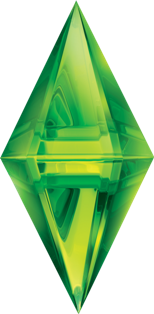
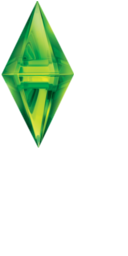
Agregado reconocimiento de objetos coleccionables y su representación en pantalla.

diff --git a/Yaguar-IT Studios/src/viradium/src/history_1/level_1.js b/Yaguar-IT Studios/src/viradium/src/history_1/level_1.js
@@ -748,8 +748,45 @@ var Cossino = (function () {
 })();
 
 
-var playerGroundSensorId = 1000;
-var objectGroundSensorCounter = playerGroundSensorId + 1;
+var ViradiumSprite = cc.Sprite.extend({
+    director: null,
+    wSizeWidth: null,
+    wSizeHeight: null,
+    frameCache: null,
+    audioEngine: null,
+    spriteDescription: null,
+
+    ctor:function () {
+        this._super();
+
+        this.setAnchorPoint(cc_Point(0.5, 0.5));
+
+        var cache = cc.SpriteFrameCache.getInstance();
+        cache.addSpriteFrames(s_viradium_plist, s_viradium_img);
+
+        this.director = cc.Director.getInstance();
+        this.wSizeWidth = this.director.getWinSize().width;
+        this.wSizeHeight = this.director.getWinSize().height;
+        this.frameCache = cc.SpriteFrameCache.getInstance();
+        this.audioEngine = cc.AudioEngine.getInstance();
+
+        this.spriteDescription = "Viradium";
+
+        this.initWithSpriteFrameName("viradium_1.png");
+
+        var next_frame = this.frameCache.getSpriteFrame("viradium_1.png");
+
+        this.setTextureRect(next_frame.getRect());
+        this.setContentSize(next_frame.getRect().width,
+                            next_frame.getRect().height);
+        this.setDisplayFrame(next_frame);
+
+        this.scheduleUpdate();
+    },
+
+    update:function () {
+    }
+});
 
 
 var Hist1Lvl1Layer = cc.Layer.extend({
@@ -798,6 +835,7 @@ var Hist1Lvl1Layer = cc.Layer.extend({
     _playerRunDeltaMultiplier: 1.0,
     _playerWalkDeltaMultiplier: 1.0,
     _playerJumpDeltaMultiplier: 1.0,
+
 
     ctor:function () {
         cc.log("Init Function: Hist1Lvl1Layer.");
@@ -1259,10 +1297,15 @@ var Hist1Lvl1Layer = cc.Layer.extend({
                     sprite.setPosition(cc_Point(this_obj._wsizewidth / 2,
                                                 spritePosition.y));
                 }
-            }
-            else {
-                // Analizar objetos TMX
-                objectTMX = sprite;
+                else if (sprite instanceof ViradiumSprite) {
+                    spritePosition = cc_Point(bodyf.GetPosition().x * physics.scale,
+                                              bodyf.GetPosition().y * physics.scale);
+
+                    spriteAngle = -1 * cc_RADIANS_TO_DEGREES(bodyf.GetAngle());
+
+                    sprite.setPosition(cc_Point(spritePosition.x, spritePosition.y));
+                    sprite.setRotation(spriteAngle);
+                }
             }
         }
 
@@ -2236,6 +2279,7 @@ var Hist1Lvl1Layer = cc.Layer.extend({
             this._processBackgroundLayer();
             this._processColisionesLayer();
             this._processTrayectoriasLayer();
+            this._processColeccionablesLayer();
             this._processFinishLayer();
         }
     },
@@ -2257,14 +2301,22 @@ var Hist1Lvl1Layer = cc.Layer.extend({
             var userDataB = fixtureB.GetUserData();
 
             if (userDataA !== null) {
-                if (userDataA instanceof cc_Sprite) {
-                    cc.log("Begin Body A (Sprite): " + bodyA.GetPosition().x + " " + bodyA.GetPosition().y);
-                    userDataA.setColor(new cc.Color4B(0, 0, 255, 255));
+                if (userDataA instanceof CossinoSprite) {
+                    // TODO: Eliminar líneas de logging y color
+                    cc.log("Begin Body A (Cossino Sprite): " + bodyA.GetPosition().x + " " + bodyA.GetPosition().y);
+                    userDataA.setColor(new cc.Color4B(255, 0, 0, 128));
+                }
+                else if (userDataA instanceof ViradiumSprite) {
+                    // TODO: Eliminar líneas de logging y color
+                    cc.log("Begin Body A (Viradium Sprite): " + bodyA.GetPosition().x + " " + bodyA.GetPosition().y);
+                    userDataA.setColor(new cc.Color4B(255, 0, 0, 128));
                 }
                 else if (userDataA instanceof Object) {
+                    // TODO: Eliminar líneas de logging y color
                     cc.log("Begin Body A (TMX Object): " + bodyA.GetPosition().x + " " + bodyA.GetPosition().y);
                 }
                 else if (userDataA == 1000) {
+                    // TODO: Eliminar líneas de logging y color
                     cc.log("Begin Ground Sensor A.");
                     cc.log(userDataA);
                     bodyA.GetUserData().setPlayerIsOnGround(true);
@@ -2272,14 +2324,22 @@ var Hist1Lvl1Layer = cc.Layer.extend({
             }
 
             if (userDataB !== null) {
-                if (userDataB instanceof cc_Sprite) {
-                    cc.log("Begin Body B (Sprite): " + bodyB.GetPosition().x + " " + bodyB.GetPosition().y);
-                    userDataB.setColor(new cc.Color4B(255, 0, 0, 255));
+                if (userDataB instanceof CossinoSprite) {
+                    // TODO: Eliminar líneas de logging y color
+                    cc.log("Begin Body B (Cossino Sprite): " + bodyB.GetPosition().x + " " + bodyB.GetPosition().y);
+                    userDataB.setColor(new cc.Color4B(255, 0, 0, 128));
+                }
+                else if (userDataB instanceof ViradiumSprite) {
+                    // TODO: Eliminar líneas de logging y color
+                    cc.log("Begin Body B (Viradium Sprite): " + bodyB.GetPosition().x + " " + bodyB.GetPosition().y);
+                    userDataB.setColor(new cc.Color4B(255, 0, 0, 128));
                 }
                 else if (userDataB instanceof Object) {
+                    // TODO: Eliminar líneas de logging y color
                     cc.log("Begin Body B (TMX Object): " + bodyB.GetPosition().x + " " + bodyB.GetPosition().y);
                 }
                 else if (userDataB == 1000) {
+                    // TODO: Eliminar líneas de logging y color
                     cc.log("Begin Ground Sensor B.");
                     cc.log(userDataB);
                     bodyB.GetUserData().setPlayerIsOnGround(true);
@@ -2297,14 +2357,22 @@ var Hist1Lvl1Layer = cc.Layer.extend({
             var userDataB = fixtureB.GetUserData();
 
             if (userDataA !== null) {
-                if (userDataA instanceof cc_Sprite) {
-                    cc.log("End Body A (Sprite): " + bodyA.GetPosition().x + " " + bodyA.GetPosition().y);
-                    userDataA.setColor(new cc.Color4B(0, 0, 255, 255));
+                if (userDataA instanceof CossinoSprite) {
+                    // TODO: Eliminar líneas de logging y color
+                    cc.log("End Body A (Cossino Sprite): " + bodyA.GetPosition().x + " " + bodyA.GetPosition().y);
+                    userDataA.setColor(new cc.Color4B(0, 0, 255, 128));
+                }
+                else if (userDataA instanceof ViradiumSprite) {
+                    // TODO: Eliminar líneas de logging y color
+                    cc.log("Begin Body A (Viradium Sprite): " + bodyA.GetPosition().x + " " + bodyA.GetPosition().y);
+                    userDataA.setColor(new cc.Color4B(0, 0, 255, 128));
                 }
                 else if (userDataA instanceof Object) {
+                    // TODO: Eliminar líneas de logging y color
                     cc.log("End Body A (TMX Object): " + bodyA.GetPosition().x + " " + bodyA.GetPosition().y);
                 }
                 else if (userDataA == 1000) {
+                    // TODO: Eliminar líneas de logging y color
                     cc.log("End Ground Sensor A.");
                     cc.log(userDataA);
                     bodyA.GetUserData().setPlayerIsOnGround(false);
@@ -2312,14 +2380,22 @@ var Hist1Lvl1Layer = cc.Layer.extend({
             }
 
             if (userDataB !== null) {
-                if (userDataB instanceof cc_Sprite) {
+                if (userDataB instanceof CossinoSprite) {
+                    // TODO: Eliminar líneas de logging y color
                     cc.log("End Body B (Sprite): " + bodyB.GetPosition().x + " " + bodyB.GetPosition().y);
-                    userDataB.setColor(new cc.Color4B(255, 0, 0, 255));
+                    userDataB.setColor(new cc.Color4B(255, 0, 0, 128));
+                }
+                else if (userDataB instanceof ViradiumSprite) {
+                    // TODO: Eliminar líneas de logging y color
+                    cc.log("End Body B (Viradium Sprite): " + bodyB.GetPosition().x + " " + bodyB.GetPosition().y);
+                    userDataB.setColor(new cc.Color4B(255, 0, 0, 128));
                 }
                 else if (userDataB instanceof Object) {
+                    // TODO: Eliminar líneas de logging y color
                     cc.log("End Body B (TMX Object): " + bodyB.GetPosition().x + " " + bodyB.GetPosition().y);
                 }
                 else if (userDataB == 1000) {
+                    // TODO: Eliminar líneas de logging y color
                     cc.log("End Ground Sensor B.");
                     cc.log(userDataB);
                     bodyB.GetUserData().setPlayerIsOnGround(false);
@@ -2530,10 +2606,13 @@ var Hist1Lvl1Layer = cc.Layer.extend({
         // Capa "Background"
         if (this._tileMap === null) { return false; }
 
-        var layerBackground = this._tileMap.getLayer("Background");
+        var layerBackground_1 = this._tileMap.getLayer("Background_1");
+        var layerBackground_2 = this._tileMap.getLayer("Background_2");
         cc.log("-----------------");
-        cc.log("Layer Background");
-        cc.log(layerBackground);
+        cc.log("Layer Background 1");
+        cc.log(layerBackground_1);
+        cc.log("Layer Background 2");
+        cc.log(layerBackground_1);
 
         return true;
     },
@@ -2592,7 +2671,24 @@ var Hist1Lvl1Layer = cc.Layer.extend({
         cc.log(objectsColeccionables);
 
         var objColecLength = objectsColeccionables.length;
+        var collectable = null;
+        var viradiumSprite = null;
+
         for (var k = 0; k < objColecLength; k++) {
+            collectable = objectsColeccionables[k];
+
+            collectable.Sensor = "True";
+            collectable.Densidad = 0;
+            collectable.Friccion = 0;
+            collectable.Restitucion = 0;
+            collectable.Cuerpo = "Static";
+
+            viradiumSpr = new ViradiumSprite();
+            viradiumSpr.setScale(0.5);
+            cc.log(viradiumSpr);
+            this._tileMap.addChild(viradiumSpr, -1);
+
+            this.addBoxBodyForTMXObject(collectable, viradiumSpr);
         }
 
         return true;

diff --git a/Yaguar-IT Studios/src/viradium/src/resources.js b/Yaguar-IT Studios/src/viradium/src/resources.js
@@ -58,6 +58,9 @@ var s_roca_1_grande = h_1_img_dir + "roca_1_grande.png";
 var s_rocas_img = h_1_img_dir + "rocas.png";
 var s_rocas_plist = h_1_img_dir + "rocas.plist";
 
+var s_viradium_img = h_1_img_dir + "viradium.png";
+var s_viradium_plist = h_1_img_dir + "viradium.plist";
+
 // Sonido
 var h_1_music_dir = "resources/history_1/music/";
 
@@ -155,10 +158,12 @@ var g_resources = [
     {type:"image", src:s_roca_1_media},
     {type:"image", src:s_roca_1_grande},
     {type:"image", src:s_rocas_img},
+    {type:"image", src:s_viradium_img},
 
     //plist
     {type:"plist", src:s_cossino_plist},
     {type:"plist", src:s_rocas_plist},
+    {type:"plist", src:s_viradium_plist},
 
     //fnt
     {type:"fnt", src:s_font_bitmap_fnt},
